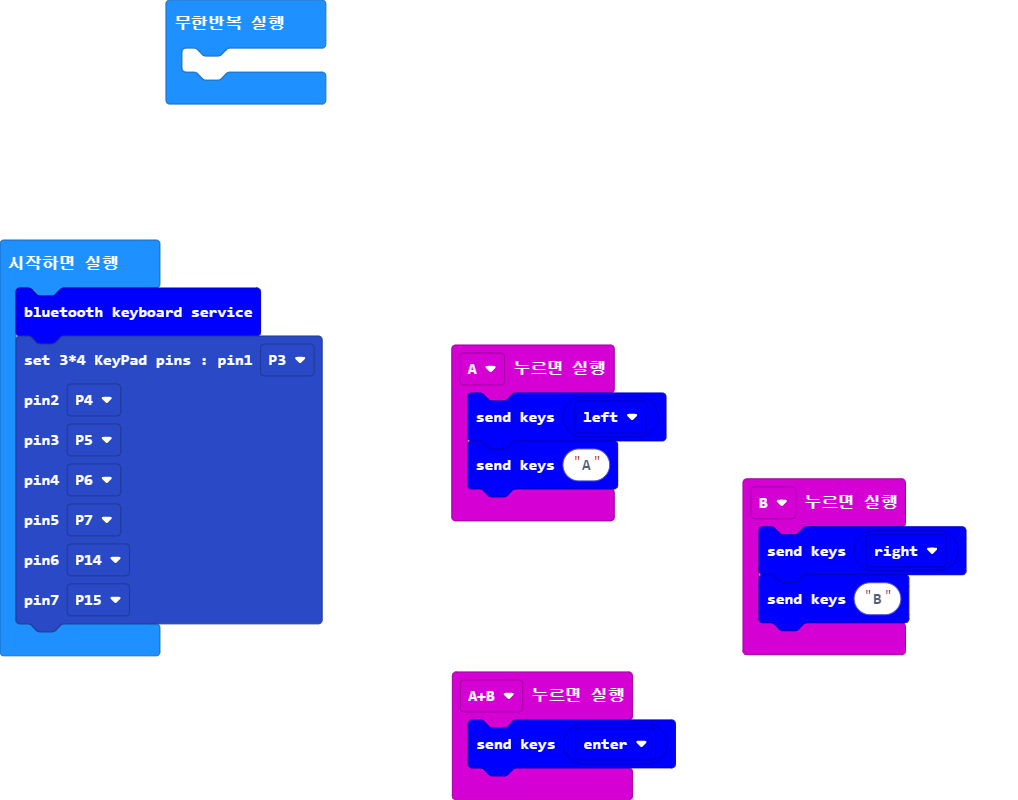
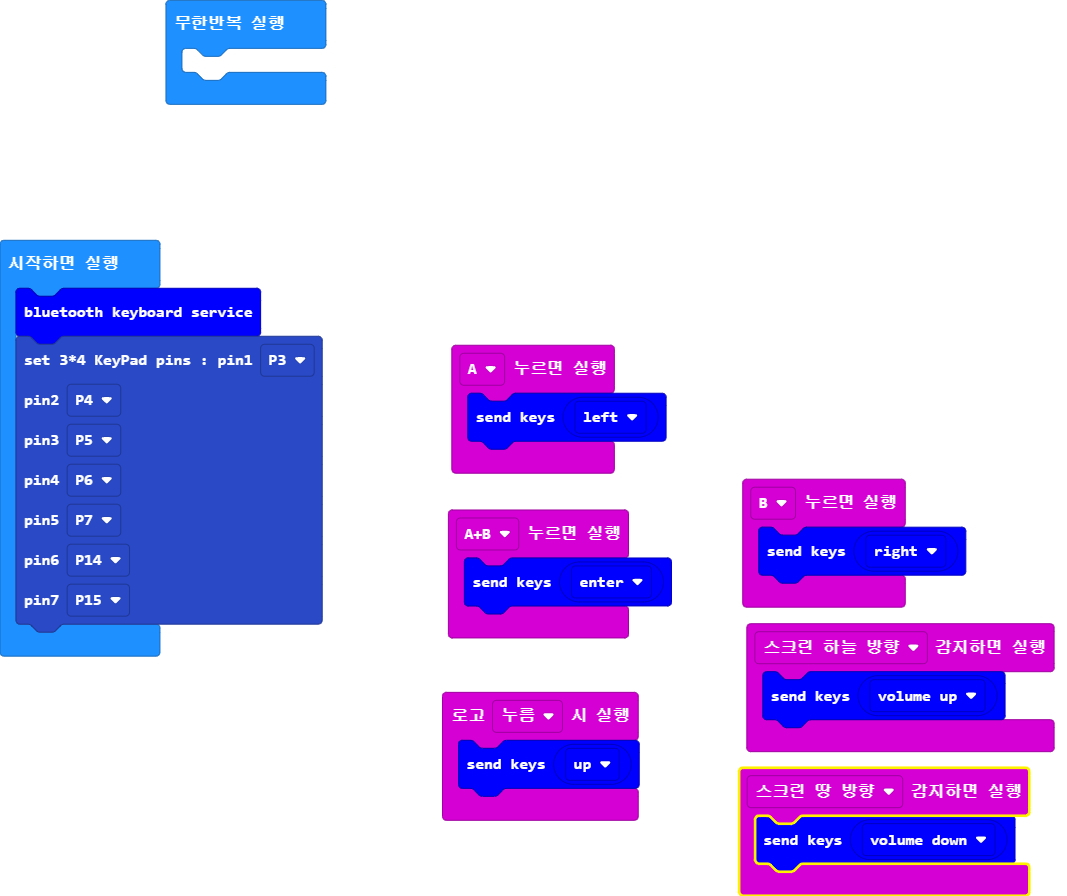
main.blocks, main.ts 업데이트하기

Changed region(s): [[0.3959, 0.375, 1.0, 1.0], [0.0, 0.25, 0.335, 0.8438], [0.1523, 0.0, 0.335, 0.1562]]

diff --git a/main.ts b/main.ts
@@ -1,13 +1,20 @@
+input.onLogoEvent(TouchButtonEvent.Pressed, function () {
+    keyboard.sendString(keyboard.keys(keyboard._Key.up))
+})
+input.onGesture(Gesture.ScreenUp, function () {
+    keyboard.sendString(keyboard.keys(keyboard._Key.vol_up))
+})
 input.onButtonPressed(Button.A, function () {
     keyboard.sendString(keyboard.keys(keyboard._Key.left))
-    keyboard.sendString("A")
+})
+input.onGesture(Gesture.ScreenDown, function () {
+    keyboard.sendString(keyboard.keys(keyboard._Key.vol_down))
 })
 input.onButtonPressed(Button.AB, function () {
     keyboard.sendString(keyboard.keys(keyboard._Key.enter))
 })
 input.onButtonPressed(Button.B, function () {
     keyboard.sendString(keyboard.keys(keyboard._Key.right))
-    keyboard.sendString("B")
 })
 keyboard.startKeyboardService()
 keypad.setKeyPad3(
